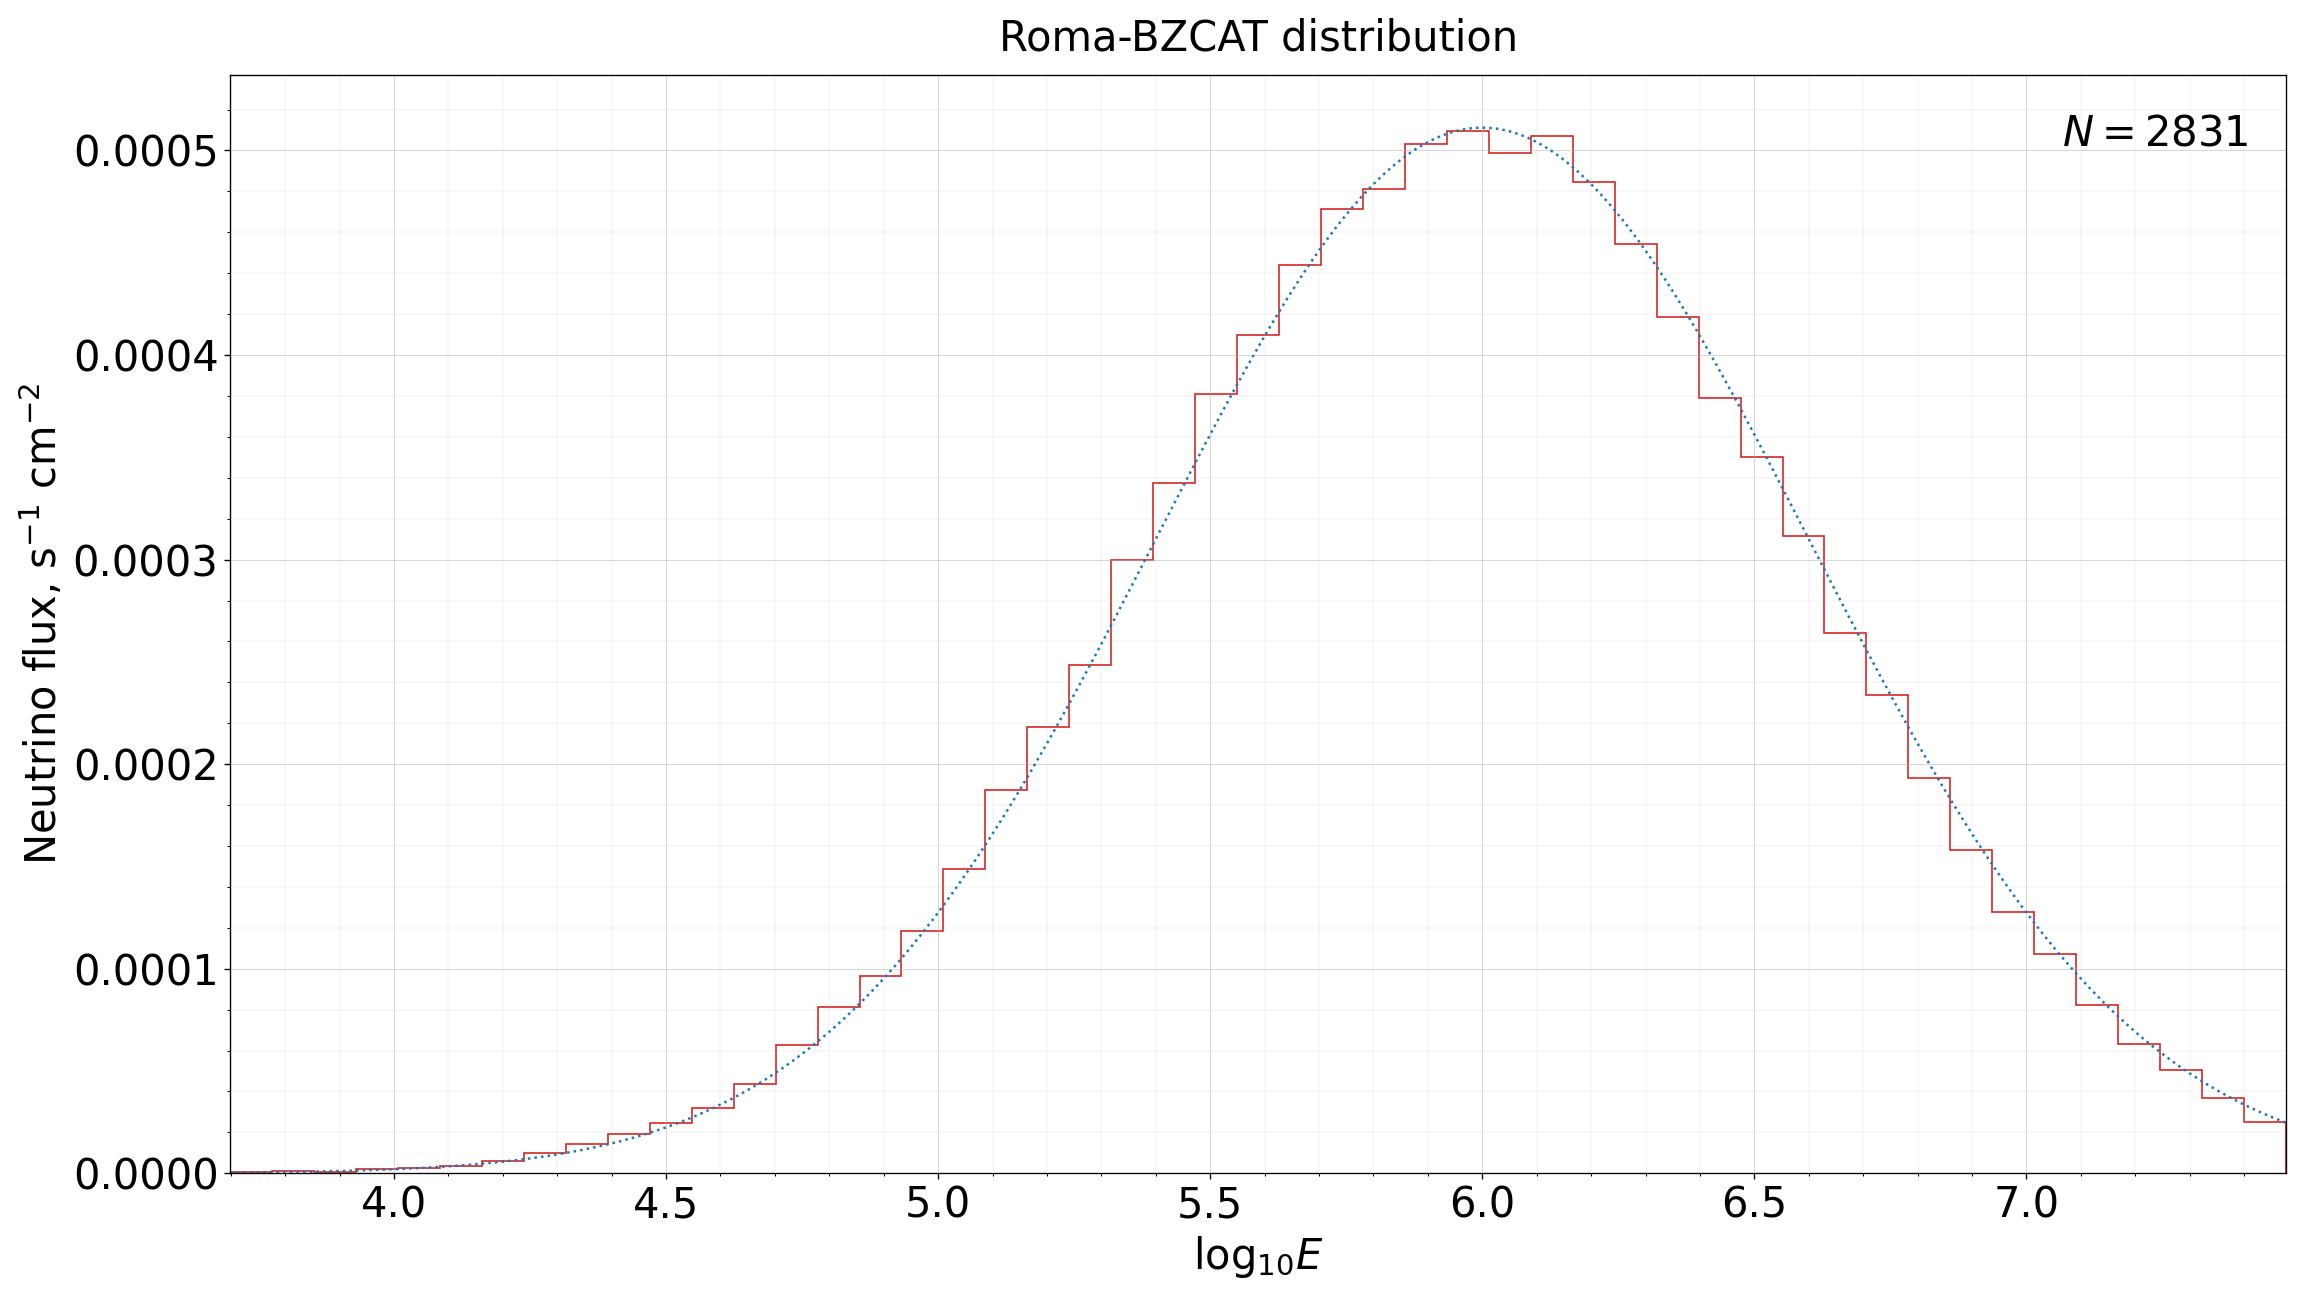
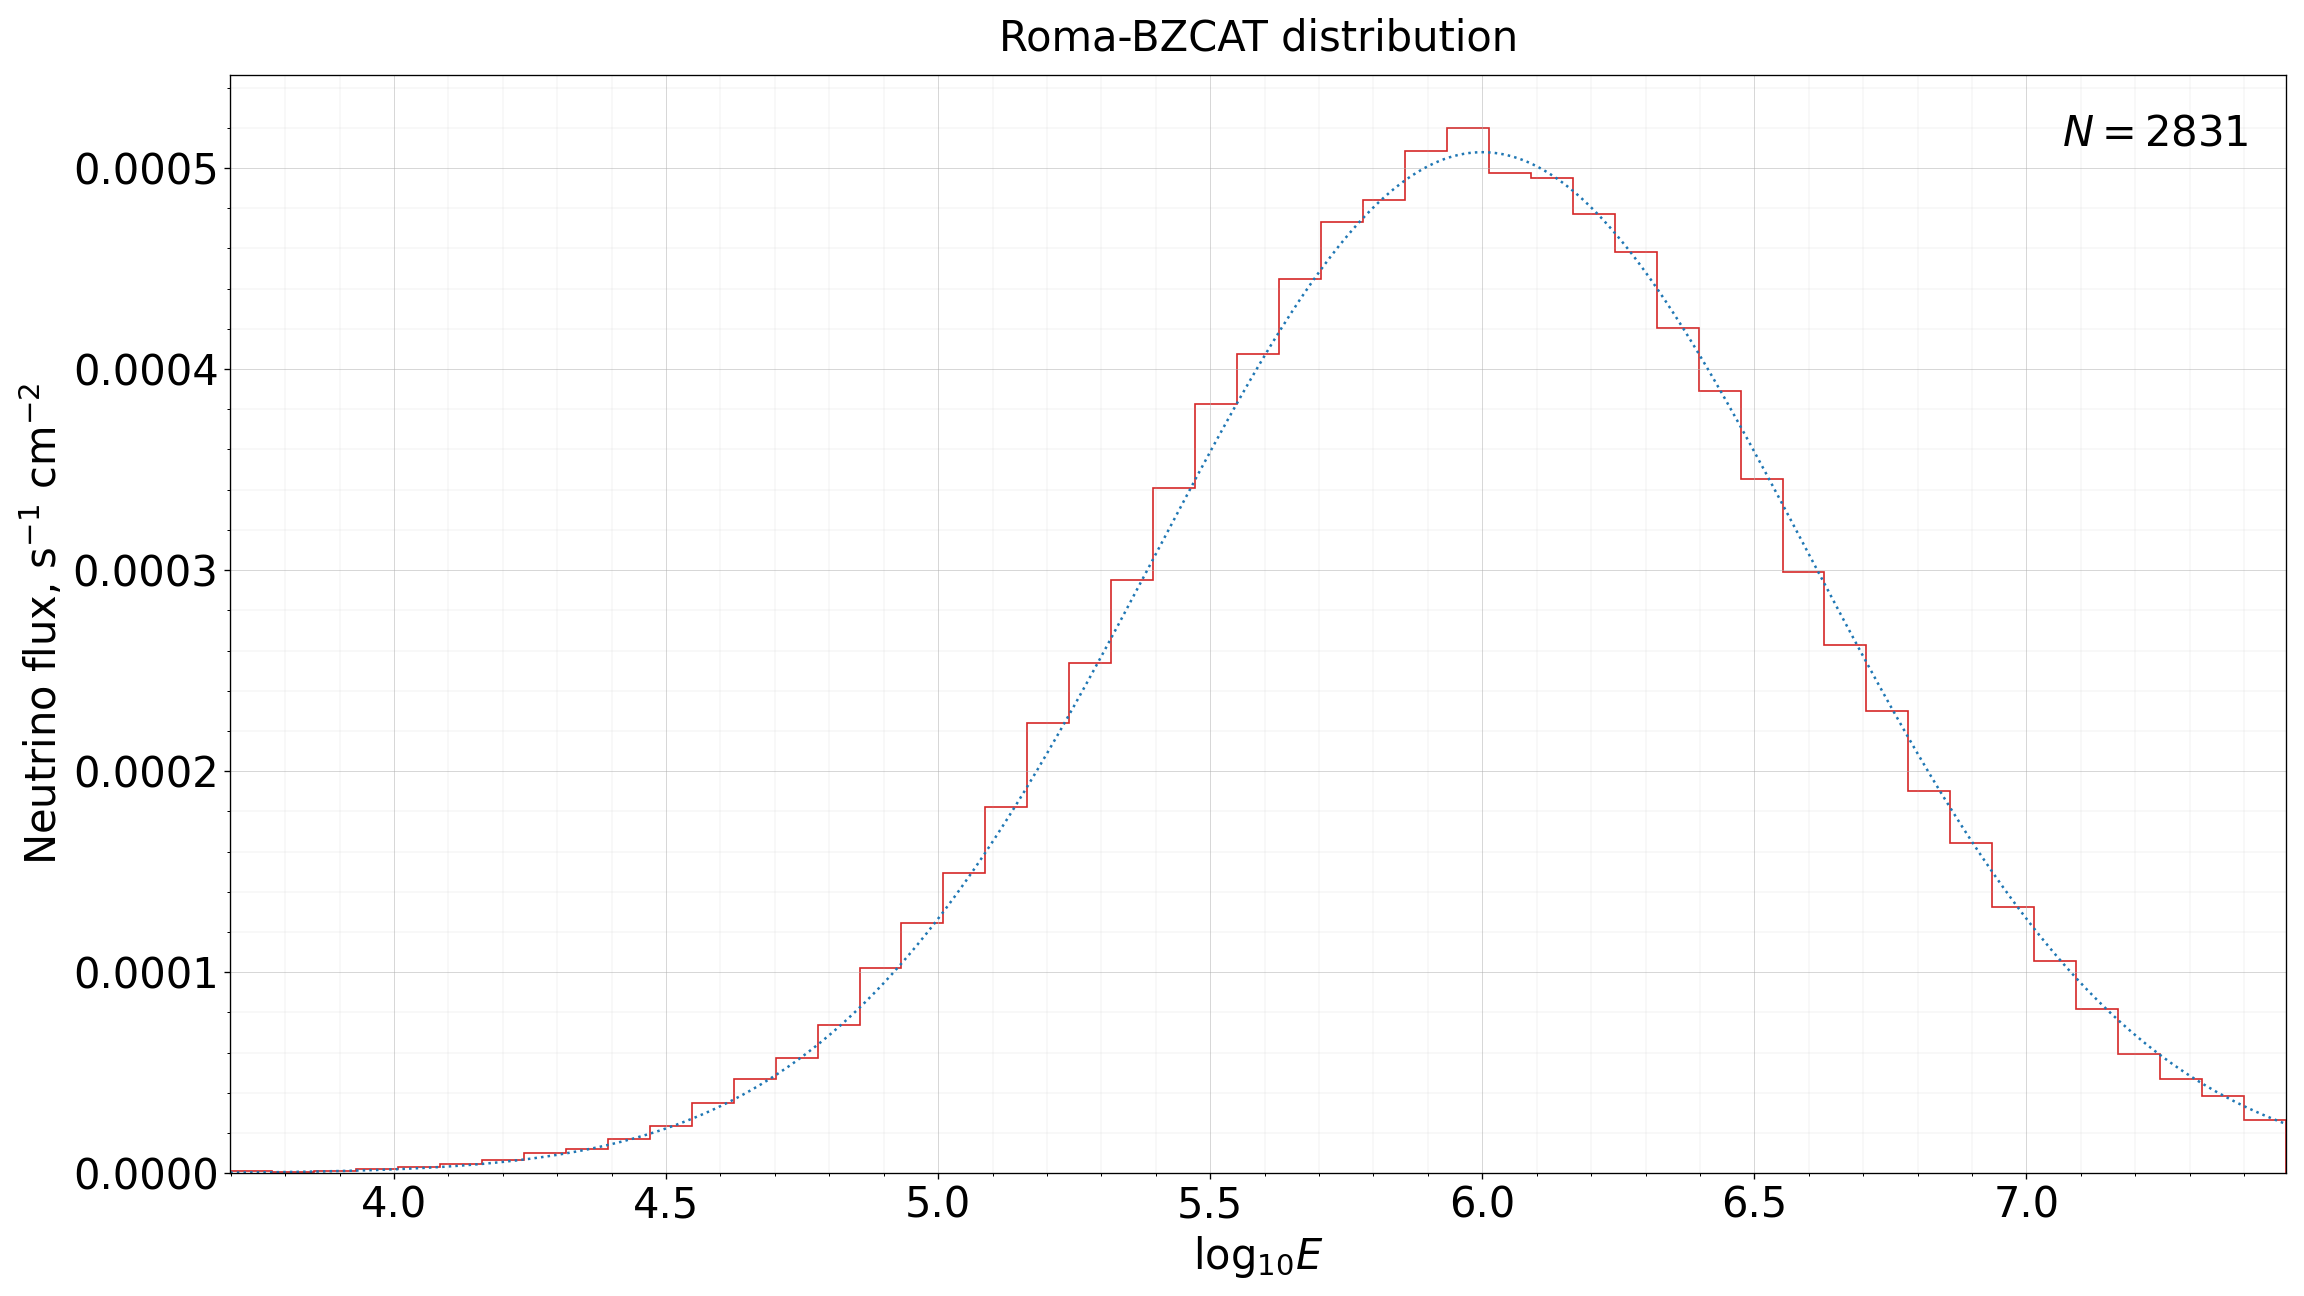
after checkpoint

diff --git a/neutrino.py b/neutrino.py
@@ -8,10 +8,25 @@ import matplotlib.pyplot as plt
 import catalogs
 import angles
 
-# TODO презентацию со всеми картинками, несколько на слайд
-# TODO формулы з.в. и нейтринного потока
-# TODO рассказать при показе энергетического распределения: диапазон, параметры гауссианы, одни и те же бины
-# TODO 2mrs не нужен
+# TODO гистограмма для потоков (логарифм энергии)
+# TODO гистограмма для потоков в столбце (логарифм энергии, используемый бин)
+
+# TODO разность звездных величин в разных фильтрах
+#  https://vk.com/doc500152640_648627931?hash=z948VlQzUFMxtCxVrb6zvVXIyIIECwjAqzHWRQvDzKT&dl=o0hgqnhtA55KssQgEXoREkaWcw5sihCEaGIILpWZWxg
+
+# TODO промоделировать пуассоновский процесс (обычный генератор) в кубе (сфере) некоторого радиуса
+#  у каждого объекта будет абсолютная величина (обычный генератор) (первое приближение генерировать через гауссиану)
+#  посчитать видимую звездную
+#  сделать два каталога: с селекцией и без (обрубить по видимой звездной)
+#  число точек в искусственных каталогах должно быть равно числу точек в реальных
+#  (можно потыкаться или моделировать сразу много)
+#  картинки:
+#  как в смещении Малмквиста (абсолютная от расстояния)
+#  все те картинки, что мы делали для реальных каталогов (должно быть видно смещение)
+#  ----------------------------------------------------------------------------------
+#  должно получится 2 * 4 каталога (сделать сначала по bzcat)
+
+# TODO (со звездочкой) исследовать каталог квазаров на однородные выборки (по Type, по Zcite)
 
 # constants
 EMin = 5 * 10 ** 3
@@ -265,6 +280,7 @@ def normal_pdf_logx_graph_all(catalog):
     from scipy.stats import norm
 
     data = catalogs.read(catalog)
+    # data = data.loc[(data['Z'] > 2) & (data['Z'] < 3)]
     scaling(data)
 
     fig = plt.figure(figsize=(19.2, 10.8))
@@ -275,7 +291,7 @@ def normal_pdf_logx_graph_all(catalog):
     ax.stairs(hist, binsEdges, fill=False, color='tab:red', label=fr'$N={len(data.index)}$')
 
     x = np.linspace(np.log10(EMin), np.log10(EMax), 10 ** 4)
-    n_particles = np.sum(data['NEU'])
+    n_particles = np.sum(hist)
     y = norm.pdf(x, loc=mu, scale=sigma) * n_particles * (binsEdges[1] - binsEdges[0])
     ax.plot(x, y, linestyle='dotted', color='tab:blue')
 
@@ -415,6 +431,8 @@ def gauss(catalog, glon, glat, dgl, n_grid, fwhm):
 
 
 def gauss_graph(catalog):
+    # TODO номер столбца добавить
+
     visuals = {
         '2mrs': {
             'dgl': 60,
@@ -543,3 +561,6 @@ def btot_vs_dist():
     fig.savefig('other graphs/btotVsDist.png', dpi=120)
 
     plt.show()
+
+
+normal_pdf_logx_graph(10 ** -6)

diff --git a/catalogs.py b/catalogs.py
@@ -137,8 +137,6 @@ def read_cf2():
 @print_and_format
 def read_bzcat():
     """
-    TODO насколько отличаются звездные величины в разных фильтрах у АЧТ (хотелось бы нормировать з.в.)
-
     Main page:
         https://heasarc.gsfc.nasa.gov/W3Browse/all/romabzcat.html
     Catalog page:
